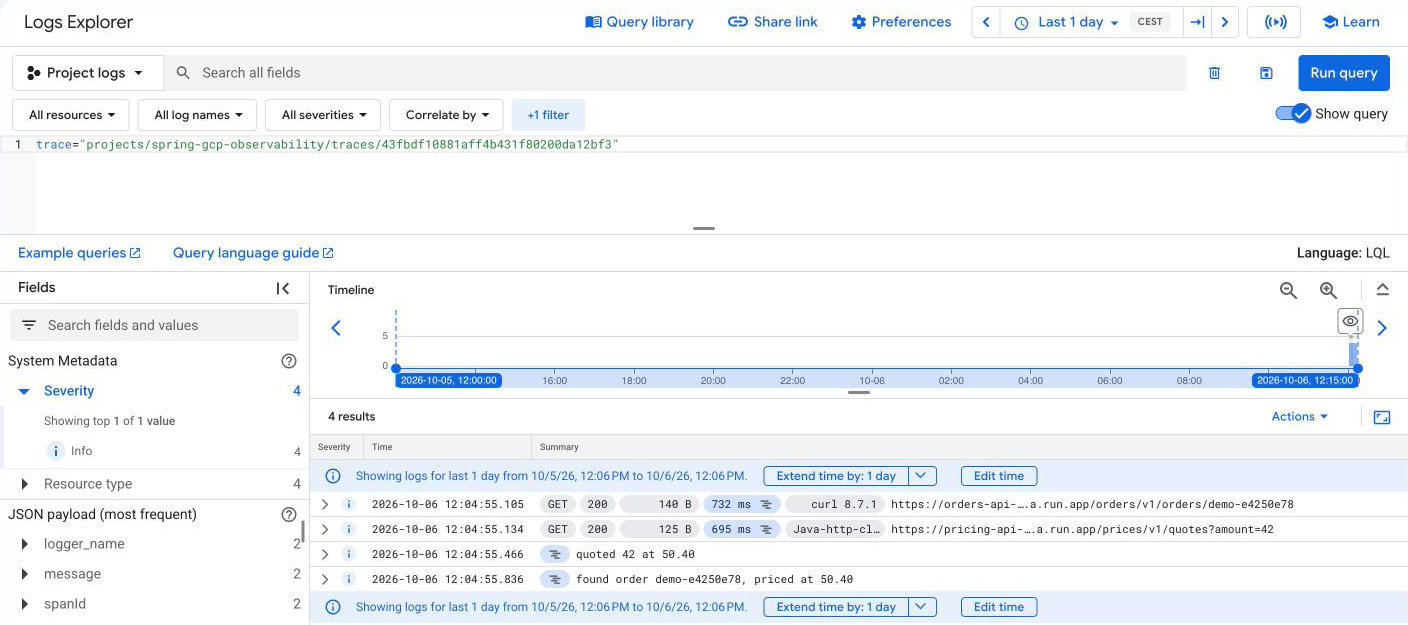
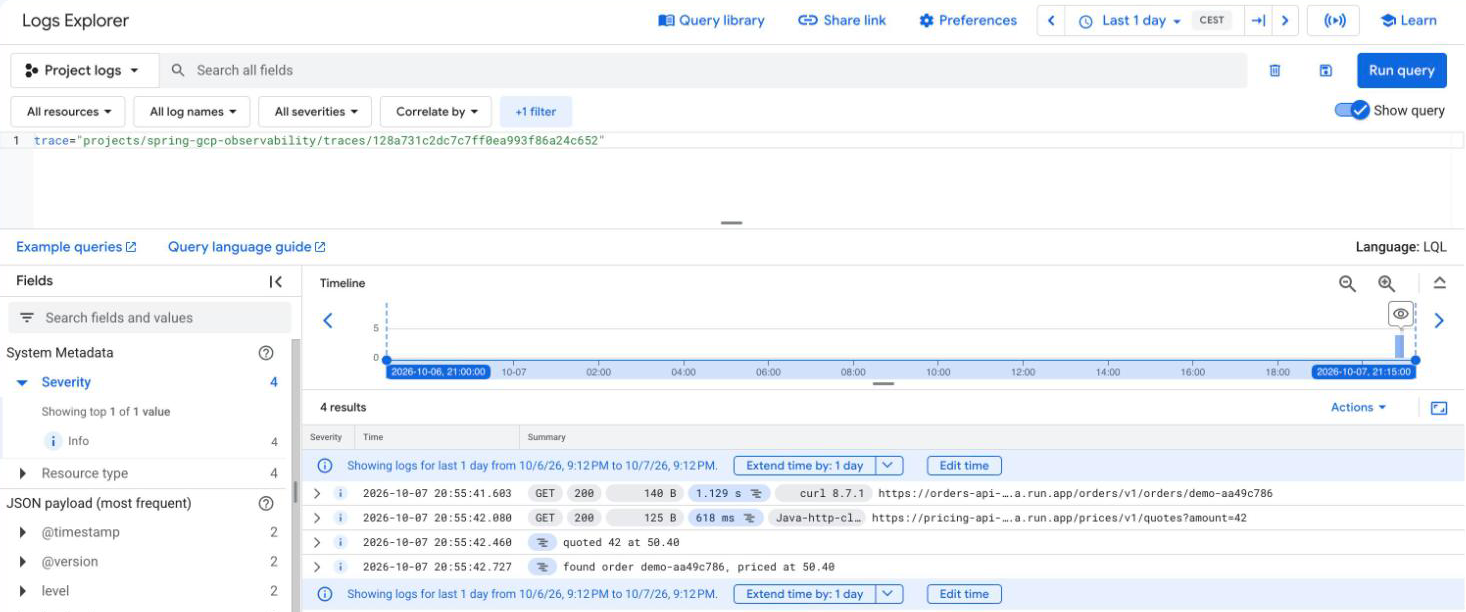
Spans of your own : a named @Observed method and an Observation around a block, screenshots refreshed
- pricing-api : @Observed moves from the class to quote(), named with contextualName alone — the span
  name ; name would only rename the metric, and no metrics are exported here. A pricing.vat
  Observation wraps the VAT calculation, tagged vat.rate. orders-api keeps @Observed on its class :
  both ways shown
- pricing-api's tests in the usual shape : the controller slice mocks the service, the VAT rule in a
  plain unit test — no registry there, Micrometer runs the block without recording it
- verified on Cloud Run : ten spans, pricing.quote > pricing.vat under pricing-api's server span ;
  all four screenshots retaken, the cold start measured again (9.8 s call, 254 ms in pricing-api,
  both services at zero instances ~15 min after their last request)

diff --git a/pricing-api/src/main/java/com/vspiewak/pricing/services/PricingService.java b/pricing-api/src/main/java/com/vspiewak/pricing/services/PricingService.java
@@ -1,6 +1,8 @@
 package com.vspiewak.pricing.services;
 
 import com.vspiewak.pricing.domain.Quote;
+import io.micrometer.observation.Observation;
+import io.micrometer.observation.ObservationRegistry;
 import io.micrometer.observation.annotation.Observed;
 import java.math.BigDecimal;
 import java.math.RoundingMode;
@@ -9,16 +11,27 @@ import org.slf4j.LoggerFactory;
 import org.springframework.stereotype.Service;
 
 @Service
-@Observed
 public class PricingService {
 
   private static final Logger log = LoggerFactory.getLogger(PricingService.class);
 
   private static final BigDecimal VAT_RATE = new BigDecimal("0.20");
 
+  private final ObservationRegistry observationRegistry;
+
+  public PricingService(ObservationRegistry observationRegistry) {
+    this.observationRegistry = observationRegistry;
+  }
+
+  // on the method, named : the span reads pricing.quote, not PricingService#quote
+  @Observed(contextualName = "pricing.quote")
   public Quote quote(int amount) {
     var net = BigDecimal.valueOf(amount);
-    var vat = net.multiply(VAT_RATE).setScale(2, RoundingMode.HALF_UP);
+    // a span of our own, around just this block : it shows up under pricing.quote
+    var vat =
+        Observation.createNotStarted("pricing.vat", observationRegistry)
+            .lowCardinalityKeyValue("vat.rate", VAT_RATE.toPlainString())
+            .observe(() -> net.multiply(VAT_RATE).setScale(2, RoundingMode.HALF_UP));
     var quote = new Quote(amount, vat, net.add(vat));
     log.info("quoted {} at {}", amount, quote.total());
     return quote;

diff --git a/pricing-api/src/test/java/com/vspiewak/pricing/controllers/QuoteControllerTest.java b/pricing-api/src/test/java/com/vspiewak/pricing/controllers/QuoteControllerTest.java
@@ -1,23 +1,30 @@
 package com.vspiewak.pricing.controllers;
 
 import static org.assertj.core.api.Assertions.assertThat;
+import static org.mockito.BDDMockito.given;
 
+import com.vspiewak.pricing.domain.Quote;
 import com.vspiewak.pricing.services.PricingService;
+import java.math.BigDecimal;
 import org.junit.jupiter.api.Test;
 import org.springframework.beans.factory.annotation.Autowired;
 import org.springframework.boot.webmvc.test.autoconfigure.WebMvcTest;
-import org.springframework.context.annotation.Import;
+import org.springframework.test.context.bean.override.mockito.MockitoBean;
 import org.springframework.test.web.servlet.assertj.MockMvcTester;
 
-/** The controller slice, with the real pricing rule behind it. */
 @WebMvcTest(QuoteController.class)
-@Import(PricingService.class)
 class QuoteControllerTest {
 
   @Autowired private MockMvcTester mvc;
 
+  @MockitoBean private PricingService service;
+
   @Test
   void shouldQuoteAnAmountWithItsVat() {
+    // given
+    given(service.quote(7))
+        .willReturn(new Quote(7, new BigDecimal("1.40"), new BigDecimal("8.40")));
+
     // when
     var response = mvc.get().uri("/prices/v1/quotes?amount=7");
 

diff --git a/pricing-api/src/test/java/com/vspiewak/pricing/services/PricingServiceTest.java b/pricing-api/src/test/java/com/vspiewak/pricing/services/PricingServiceTest.java
@@ -1,0 +1,25 @@
+package com.vspiewak.pricing.services;
+
+import static org.assertj.core.api.Assertions.assertThat;
+
+import java.math.BigDecimal;
+import org.junit.jupiter.api.Test;
+import org.junit.jupiter.api.extension.ExtendWith;
+import org.mockito.InjectMocks;
+import org.mockito.junit.jupiter.MockitoExtension;
+
+@ExtendWith(MockitoExtension.class)
+class PricingServiceTest {
+
+  @InjectMocks private PricingService service;
+
+  @Test
+  void shouldAddTwentyPercentVat() {
+    // when
+    var quote = service.quote(7);
+
+    // then
+    assertThat(quote.vat()).isEqualByComparingTo(new BigDecimal("1.40"));
+    assertThat(quote.total()).isEqualByComparingTo(new BigDecimal("8.40"));
+  }
+}
